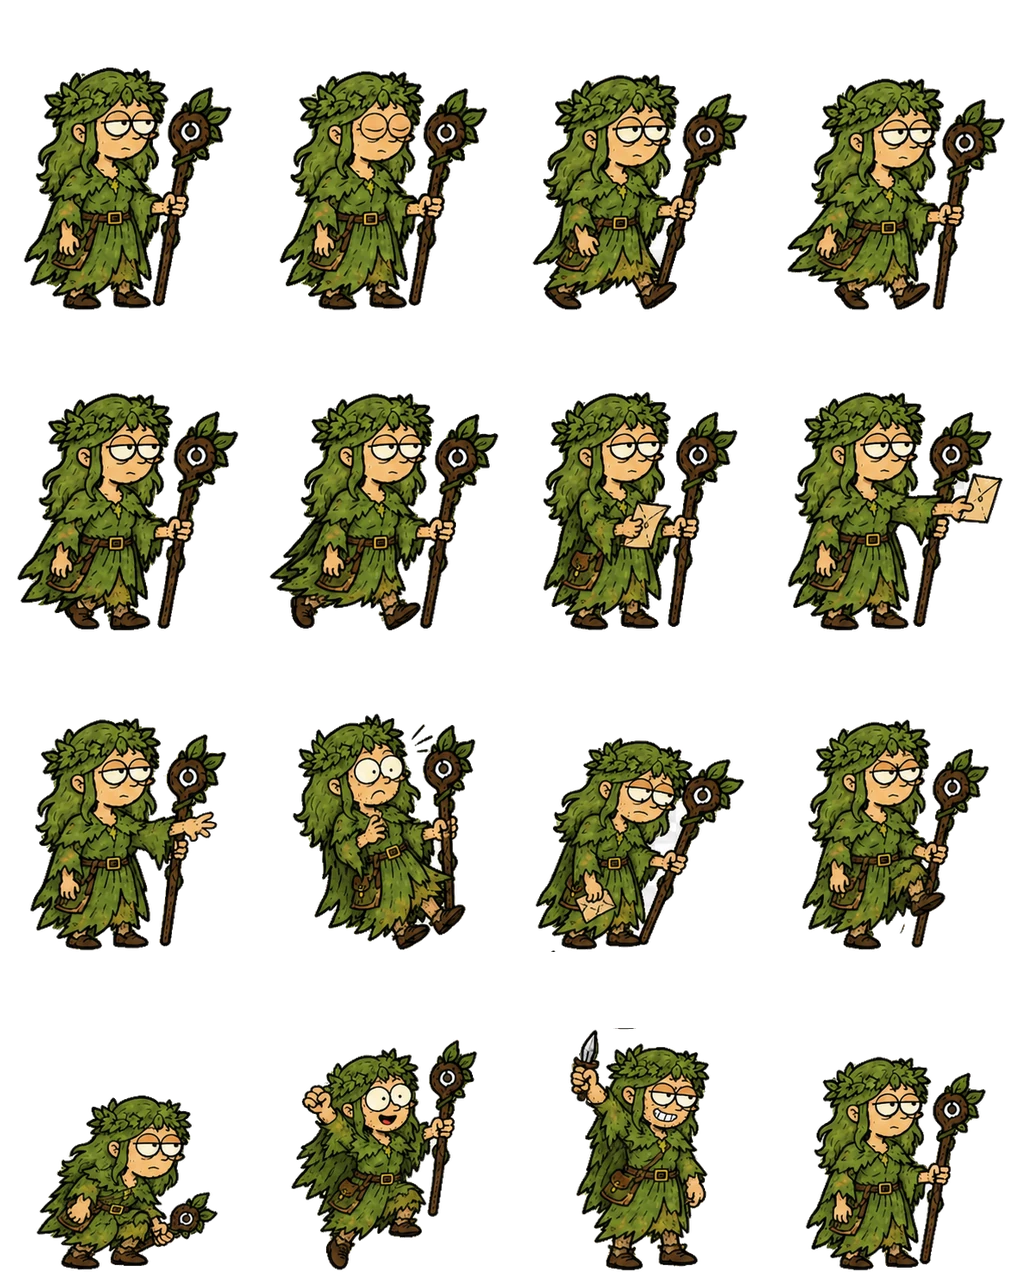
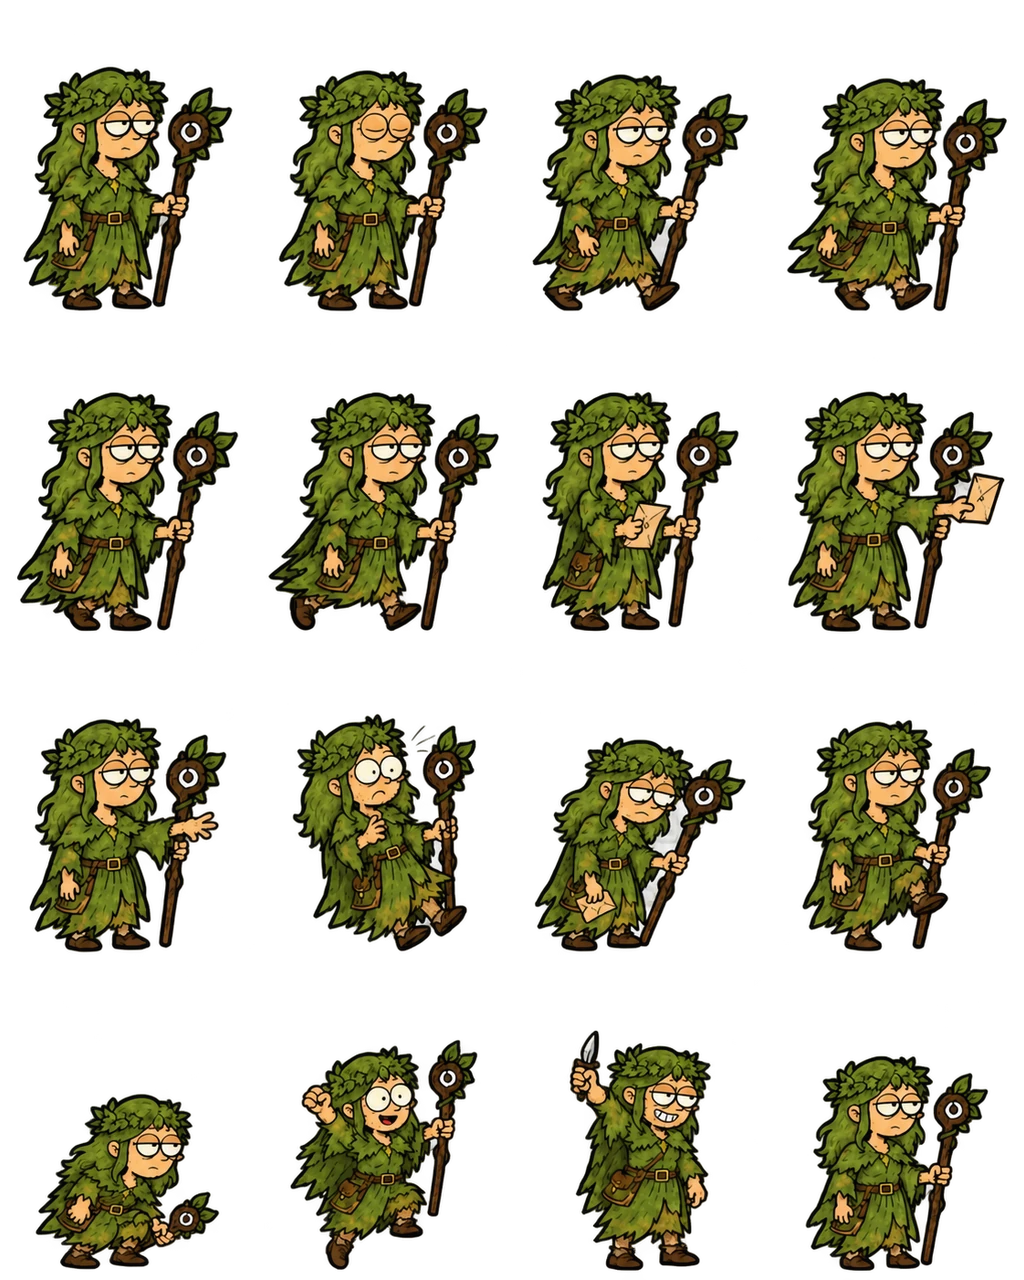
fix(game): ground heroes and clean sprite edges

diff --git a/src/components/game/GameCanvas.tsx b/src/components/game/GameCanvas.tsx
@@ -17,6 +17,7 @@ import {
   biomeAt,
   worldXFor,
   WORLD_LENGTH,
+  JOURNEY_SURFACE_Y,
 } from "@/lib/game/world";
 import { depthLight, markMotion, resetScene, scene } from "./scene";
 import { EffectView, type Effect } from "./Effects";
@@ -24,7 +25,6 @@ import { DaylightClock, Sky } from "./Backdrop";
 import { AmbientWeather } from "./AmbientWeather";
 import {
   BiomeArtLayer,
-  GROUND_Y,
   GroundLayer,
   FlatJourneyMarkers,
   LandscapeBase,
@@ -42,7 +42,7 @@ import { frameComposition, parallaxX, renderResolution } from "./projection";
 import "./extendPixi";
 
 /** Altitude de référence du sol, pour mesurer les écarts de relief. */
-const REST_SURFACE = GROUND_Y;
+const REST_SURFACE = JOURNEY_SURFACE_Y;
 
 const FAR_FACTOR = 0.16;
 const BACKGROUND_FACTOR = 0.36;
@@ -90,17 +90,17 @@ function CameraRig({
     const { width, height } = app.screen;
     if (width <= 0 || height <= 0) return;
 
-    const composition = frameComposition(width, height, scene.topInset, scene.bottomInset, GROUND_Y);
+    const composition = frameComposition(width, height, scene.topInset, scene.bottomInset, JOURNEY_SURFACE_Y);
     // The moment of an action leans in: zoom about the ground line, hero nearer the centre.
     const lean = scene.reducedMotion ? 1 : Math.min(1, dt * 3.2);
     scene.zoom += (scene.zoomTarget - scene.zoom) * lean;
     scene.anchor += (scene.anchorTarget - scene.anchor) * lean;
     if (Math.abs(scene.zoomTarget - scene.zoom) > 0.002) markMotion();
-    const groundScreenY = composition.screenOffsetY + GROUND_Y * composition.scale;
+    const groundScreenY = composition.screenOffsetY + JOURNEY_SURFACE_Y * composition.scale;
     camera.scale = composition.scale * scene.zoom;
     camera.viewW = width / camera.scale;
     camera.viewH = height / camera.scale;
-    camera.screenOffsetY = groundScreenY - GROUND_Y * camera.scale;
+    camera.screenOffsetY = groundScreenY - JOURNEY_SURFACE_Y * camera.scale;
 
     // Le paysage se découvre avec le personnage au lieu de téléporter le regard au
     // résultat final. Une exponentielle garde la même sensation pour +1 et +10 pas.

diff --git a/src/lib/game/world.ts b/src/lib/game/world.ts
@@ -10,8 +10,11 @@
 /** Résolution de référence. L'axe Y descend, comme partout en 2D. */
 export const VIEW = { width: 1280, height: 720 } as const;
 
-/** Ligne de raccord commune à toutes les tuiles de route et aux pieds des héros. */
+/** Raccord entre l'arrière du chemin et le décor, commun à toutes les tuiles. */
 export const WALKABLE_GROUND_Y = 602;
+
+/** Voie des joueurs et des coffres, sur le chemin plutôt que sur son bord arrière. */
+export const JOURNEY_SURFACE_Y = WALKABLE_GROUND_Y + 44;
 
 /**
  * Longueur d'une traversée : 42 modules de 720 unités. Un pas en vaut environ 150,
@@ -291,12 +294,12 @@ export function paletteAt(worldX: number): BiomePalette {
 /**
  * Hauteur de la surface sur laquelle marchent les personnages.
  *
- * Le monde v3 impose le même socket vertical à chaque module. Le relief existe au
- * centre des îlots décoratifs, jamais sur leurs bords ni sous les pieds du joueur.
+ * La voie de jeu reste distincte du raccord des illustrations : les joueurs et
+ * leurs récompenses avancent devant les accessoires posés au fond du chemin.
  */
 export function surfaceAt(worldX: number): number {
   void worldX;
-  return WALKABLE_GROUND_Y;
+  return JOURNEY_SURFACE_Y;
 }
 
 /** Pente de la surface, pour incliner les personnages et les accessoires. */

diff --git a/src/lib/game/decor.ts b/src/lib/game/decor.ts
@@ -53,7 +53,7 @@ export const DECOR_TEXTS = {
 export type DecorKind = keyof typeof DECOR_TEXTS | "welcome" | "friend" | "grave" | "crown" | "daily" | "hired" | "setpiece";
 export type InteriorId = "orp" | "factory";
 export const INTERIORS: ReadonlyArray<{ id: InteriorId; biome: string; name: string; from: number; to: number }> = [
-  { id: "orp", biome: "plaine", name: "Centre ORP", from: 1000, to: 2663.2 },
+  { id: "orp", biome: "plaine", name: "Centre ORP", from: 1600, to: 3263.2 },
   { id: "factory", biome: "foret", name: "Usine à CV", from: 4300, to: 5963.2 },
 ];
 export const DECOR_SPACING = 600;

diff --git a/docs/RENDERING.md b/docs/RENDERING.md
@@ -86,6 +86,12 @@ fermeture de la compagnie. Le viewport dynamique et les marges de sécurité son
 en compte. L'interface se compacte en paysage bas ; les libellés d'actions restent lisibles.
 Le glisser utilise la capture du pointeur et se termine aussi sur annulation tactile.
 
+La ligne de raccord des illustrations reste à `WALKABLE_GROUND_Y = 602`.
+La voie des joueurs et des coffres est 44 unités plus bas, à `JOURNEY_SURFACE_Y = 646`.
+`surfaceAt` fournit cette voie aux avatars, coffres, ombres et effets de pas.
+La caméra cadre cette même référence, y compris pendant un zoom, pour conserver
+la place des noms au-dessus des boutons sur les petits écrans.
+
 ## Personnages et compilation des assets
 
 Les quinze fichiers `public/art/world-v3/characters/*.webp` servent aux portraits.
@@ -349,7 +355,7 @@ s’efface à l’approche (plein au-delà de 195 unités, invisible à moins de
 Son panneau voisin est décalé pour dégager la porte « CDI ». Le péage et l’afterwork utilisent directement leurs propres
 surfaces de texte, sans panneau supplémentaire par-dessus.
 
-Les deux intérieurs conservent leurs intervalles de voyage : ORP `[1000, 2663.2]`,
+Les intérieurs occupent les intervalles de voyage suivants : ORP `[1600, 3263.2]`,
 usine `[4300, 5963.2]`, répétés à chaque tour. Ces bornes sont désormais des portes.
 `doors.ts` découpe un trajet en segments aux seuils, dans les deux sens. `SceneDoors`
 pause la marche, effectue un fondu de 240 ms, commute `scene.room` sous le noir, puis

diff --git a/docs/SCENE_DOORS.md b/docs/SCENE_DOORS.md
@@ -33,7 +33,7 @@ aussi leur inclinaison. Aucune rasterisation de texte n’est ajoutée au ticker
 
 ## Portes et salles
 
-Les seuils restent aux coordonnées existantes : ORP de 1000 à 2663,2 et usine de
+L’ORP commence plus loin dans la plaine, vers le 11ᵉ pas : de 1600 à 3263,2. L’usine va de
 4300 à 5963,2, répétés à chaque tour. La marche est découpée aux portes par `nextDoor`.
 Le héros attend au seuil pendant le fondu (240 ms vers le noir, tenue de 80 ms,
 240 ms de retour ; 120 ms par fondu en mouvement réduit). Les pas restants reprennent
@@ -54,6 +54,14 @@ ont été produites avec ImageGen intégré, puis importées en WebP avec alpha 
 5 527 554 octets, sous le budget de 6 Mo.
 
 ## Vérifications
+
+Révision du 25 septembre : ORP repoussé de 600 unités, joueurs et coffres descendus
+de 44 unités par rapport au raccord des illustrations. La caméra réserve toujours
+la place des noms au-dessus des actions. Captures à jour :
+`decor-previews/lower-path/` (départ et ORP, desktop/mobile/large) et
+`decor-previews/lower-path-later/` (approche, coffre à vingt pas, sortie, usine).
+Les treize planches présentant un liseré clair sont retouchées ; voir
+[ANIMATION_ASSETS.md](ANIMATION_ASSETS.md).
 
 Les tests unitaires couvrent le recalcul des sauvegardes, les bonus historiques,
 les limites de mois à Zurich, le recul net, l’annulation, les égalités et le passage

diff --git a/docs/ANIMATION_ASSETS.md b/docs/ANIMATION_ASSETS.md
@@ -6,6 +6,21 @@ retenues sont compilées dans le dépôt. Les originaux de génération restent 
 
 Le jeu charge seulement les personnages présents et les biomes visibles, pas ce catalogue entier.
 
+## Nettoyage des contours — 25 septembre 2026
+
+Treize planches ont été retouchées avec ImageGen intégré pour supprimer le liseré
+clair autour des personnages. La licorne et le voleur, déjà propres, sont conservés.
+Les portraits statiques et les métadonnées de taille ne changent pas. Les 16 poses
+gardent leur ordre ; cinq exports sont recalés cellule par cellule sur leurs
+dimensions et pieds d’origine avant encodage en WebP. Aucun filtre ne tourne dans le jeu.
+
+Sources et prompts exacts : [character-cleanup-prompts.json](character-cleanup-prompts.json).
+Import : `node scripts/import-character-cleanup.mjs ID SOURCE.png --reference 2a3a1b8`
+(ajouter `--register` pour les entrées correspondantes du manifeste).
+Le script contrôle les silhouettes et leurs pieds ; les tests contrôlent les
+gouttières et la contamination claire des pixels semi-transparents des quinze classes.
+Comparaison sur fond sombre : [avant / après](decor-previews/character-cleanup.jpg).
+
 ## Livrables
 
 - `public/art/world-v3/animations/{personnage}.webp` : 15 planches de 16 poses,
